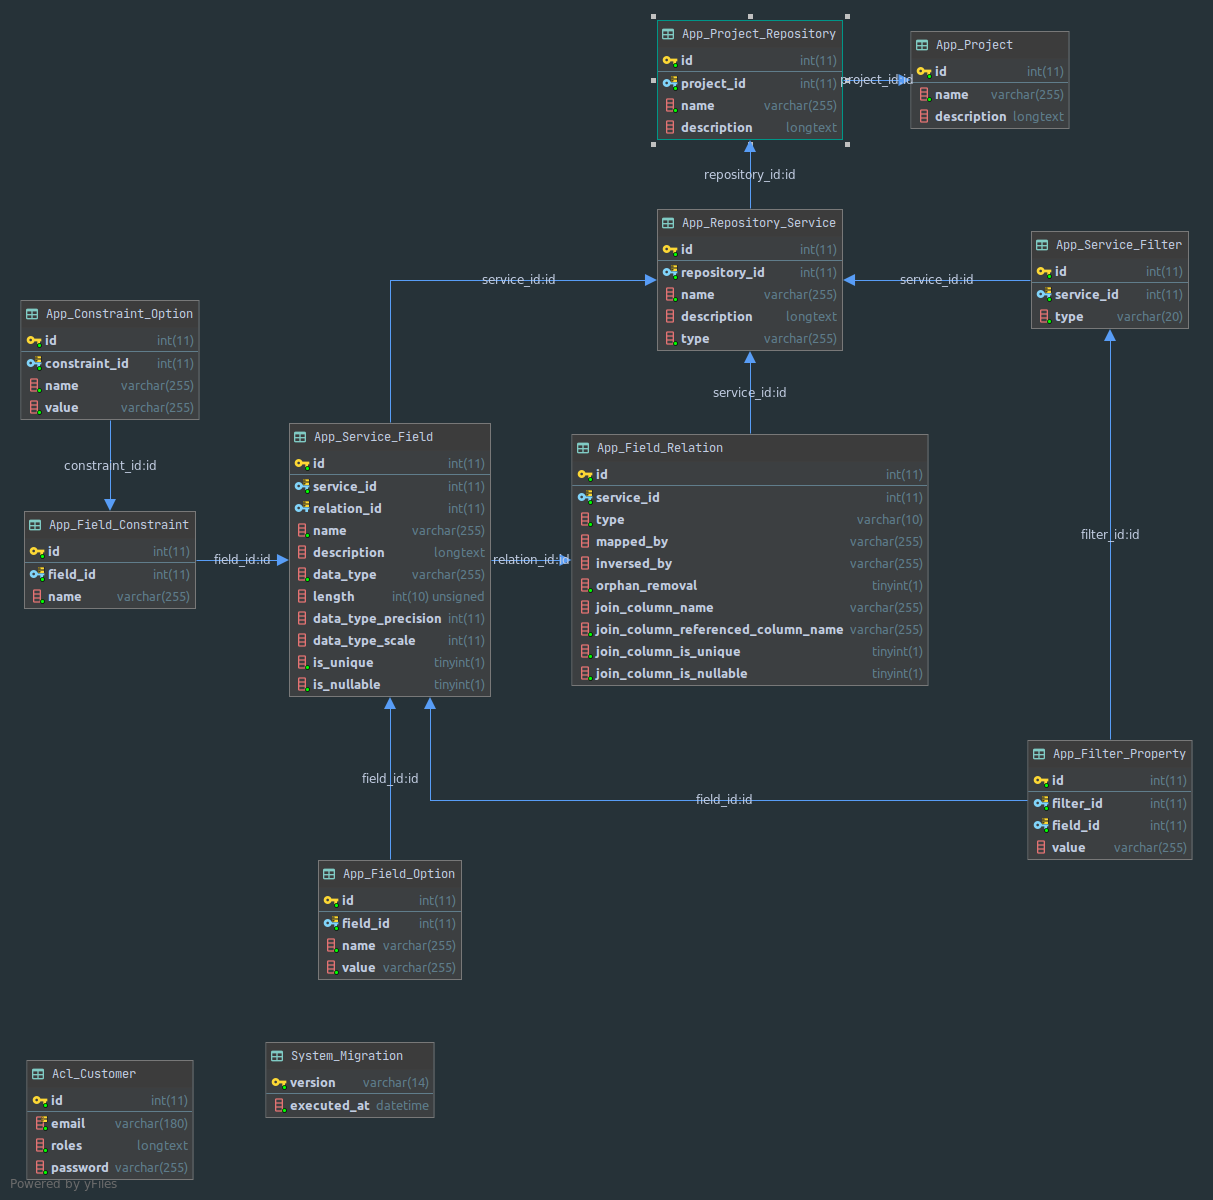
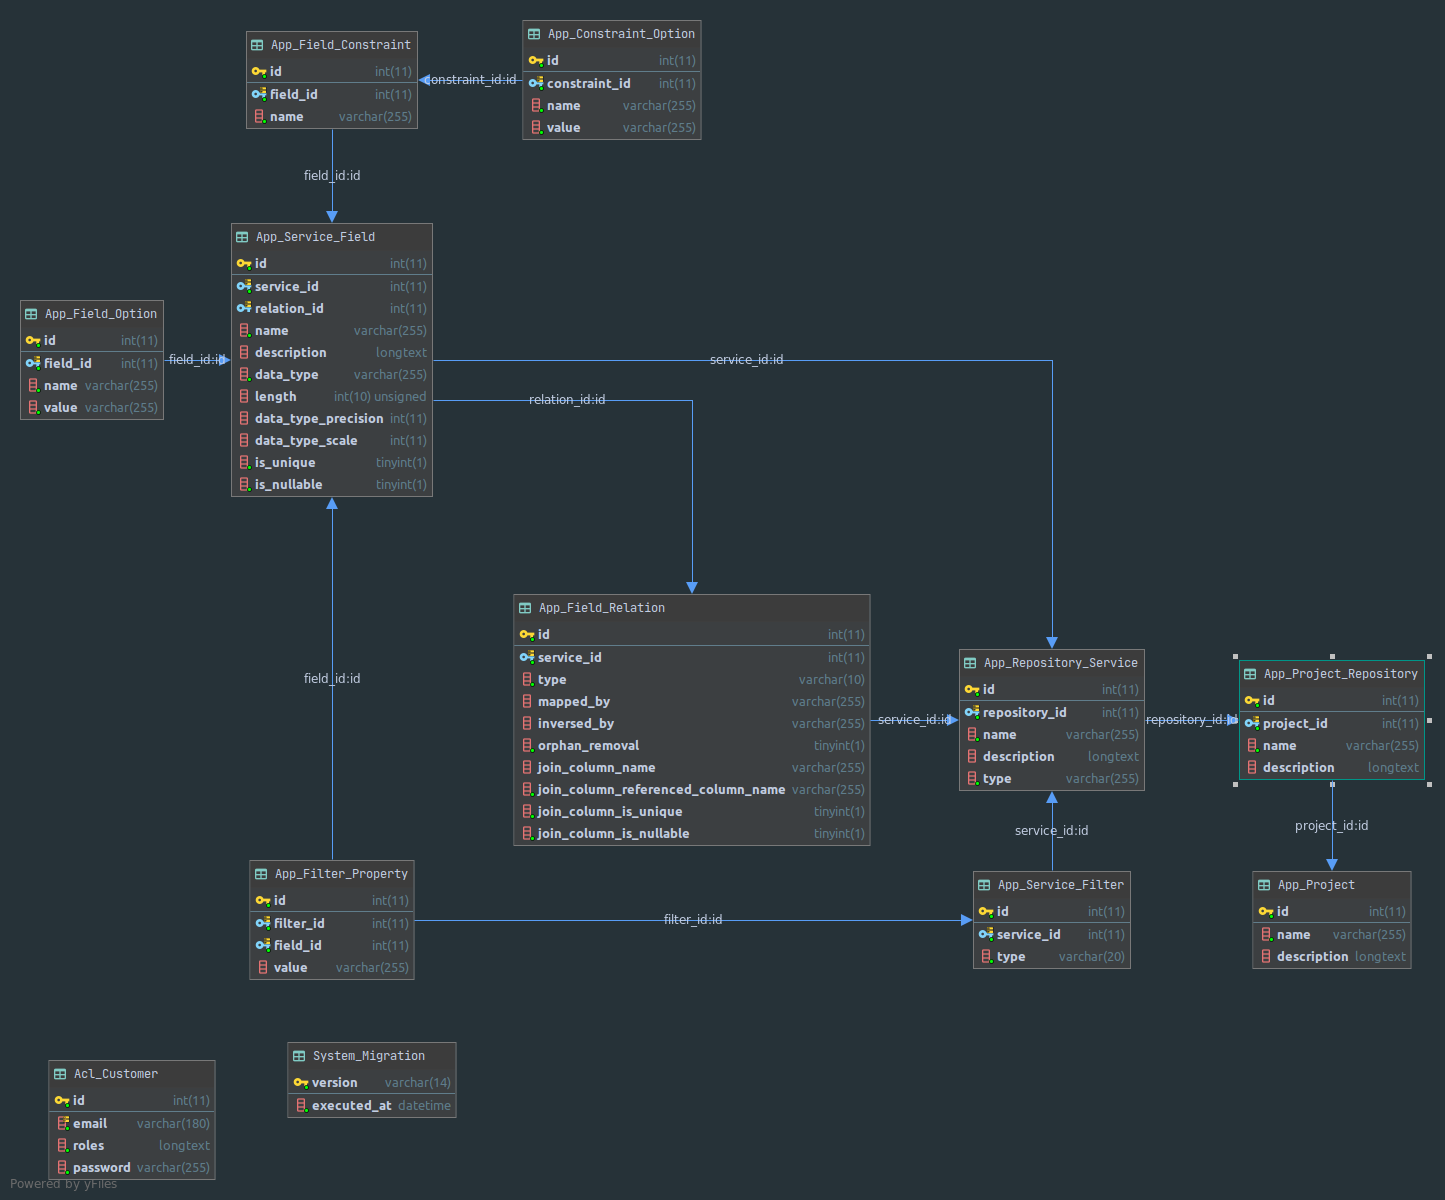
field in filter properties is now a m:1 relation

diff --git a/src/App/Migrations/Version20200807184146.php b/src/App/Migrations/Version20200807184146.php
@@ -10,7 +10,7 @@ use Doctrine\Migrations\AbstractMigration;
 /**
  * Auto-generated Migration: Please modify to your needs!
  */
-final class Version20200805165047 extends AbstractMigration
+final class Version20200807184146 extends AbstractMigration
 {
     public function getDescription() : string
     {
@@ -29,7 +29,7 @@ final class Version20200805165047 extends AbstractMigration
         $this->addSql('CREATE TABLE App_Field_Option (id INT AUTO_INCREMENT NOT NULL, field_id INT NOT NULL, name VARCHAR(255) NOT NULL, value VARCHAR(255) NOT NULL, INDEX IDX_BAEE3380443707B0 (field_id), PRIMARY KEY(id)) DEFAULT CHARACTER SET utf8mb4 COLLATE `utf8mb4_unicode_ci` ENGINE = InnoDB');
         $this->addSql('CREATE TABLE App_Project_Repository (id INT AUTO_INCREMENT NOT NULL, project_id INT NOT NULL, name VARCHAR(255) NOT NULL, description LONGTEXT DEFAULT NULL, INDEX IDX_BECDCEA4166D1F9C (project_id), PRIMARY KEY(id)) DEFAULT CHARACTER SET utf8mb4 COLLATE `utf8mb4_unicode_ci` ENGINE = InnoDB');
         $this->addSql('CREATE TABLE Acl_Customer (id INT AUTO_INCREMENT NOT NULL, email VARCHAR(180) NOT NULL, roles LONGTEXT NOT NULL COMMENT \'(DC2Type:json)\', password VARCHAR(255) NOT NULL, UNIQUE INDEX UNIQ_627894A6E7927C74 (email), PRIMARY KEY(id)) DEFAULT CHARACTER SET utf8mb4 COLLATE `utf8mb4_unicode_ci` ENGINE = InnoDB');
-        $this->addSql('CREATE TABLE App_Filter_Property (id INT AUTO_INCREMENT NOT NULL, filter_id INT NOT NULL, field_id INT NOT NULL, value VARCHAR(255) DEFAULT NULL, INDEX IDX_BB70162BD395B25E (filter_id), UNIQUE INDEX UNIQ_BB70162B443707B0 (field_id), PRIMARY KEY(id)) DEFAULT CHARACTER SET utf8mb4 COLLATE `utf8mb4_unicode_ci` ENGINE = InnoDB');
+        $this->addSql('CREATE TABLE App_Filter_Property (id INT AUTO_INCREMENT NOT NULL, filter_id INT NOT NULL, field_id INT NOT NULL, value VARCHAR(255) DEFAULT NULL, INDEX IDX_BB70162BD395B25E (filter_id), INDEX IDX_BB70162B443707B0 (field_id), PRIMARY KEY(id)) DEFAULT CHARACTER SET utf8mb4 COLLATE `utf8mb4_unicode_ci` ENGINE = InnoDB');
         $this->addSql('CREATE TABLE App_Field_Relation (id INT AUTO_INCREMENT NOT NULL, service_id INT NOT NULL, type VARCHAR(10) DEFAULT \'ManyToOne\' NOT NULL, mapped_by VARCHAR(255) DEFAULT NULL, inversed_by VARCHAR(255) DEFAULT NULL, orphan_removal TINYINT(1) DEFAULT \'0\' NOT NULL, join_column_name VARCHAR(255) DEFAULT NULL, join_column_referenced_column_name VARCHAR(255) DEFAULT \'id\' NOT NULL, join_column_is_unique TINYINT(1) DEFAULT \'0\' NOT NULL, join_column_is_nullable TINYINT(1) DEFAULT \'1\' NOT NULL, INDEX IDX_21FF0C4ED5CA9E6 (service_id), PRIMARY KEY(id)) DEFAULT CHARACTER SET utf8mb4 COLLATE `utf8mb4_unicode_ci` ENGINE = InnoDB');
         $this->addSql('CREATE TABLE App_Project (id INT AUTO_INCREMENT NOT NULL, name VARCHAR(255) NOT NULL, description LONGTEXT DEFAULT NULL, PRIMARY KEY(id)) DEFAULT CHARACTER SET utf8mb4 COLLATE `utf8mb4_unicode_ci` ENGINE = InnoDB');
         $this->addSql('CREATE TABLE App_Service_Field (id INT AUTO_INCREMENT NOT NULL, service_id INT NOT NULL, relation_id INT DEFAULT NULL, name VARCHAR(255) NOT NULL, description LONGTEXT DEFAULT NULL, data_type VARCHAR(255) DEFAULT \'string\' NOT NULL, length INT UNSIGNED DEFAULT NULL, data_type_precision INT DEFAULT NULL, data_type_scale INT DEFAULT NULL, is_unique TINYINT(1) DEFAULT \'0\' NOT NULL, is_nullable TINYINT(1) DEFAULT \'0\' NOT NULL, INDEX IDX_34E6C318ED5CA9E6 (service_id), UNIQUE INDEX UNIQ_34E6C3183256915B (relation_id), PRIMARY KEY(id)) DEFAULT CHARACTER SET utf8mb4 COLLATE `utf8mb4_unicode_ci` ENGINE = InnoDB');

diff --git a/src/App/Entity/FilterProperty.php b/src/App/Entity/FilterProperty.php
@@ -79,7 +79,7 @@ class FilterProperty
     private $filter;
 
     /**
-     * @ORM\OneToOne(targetEntity=Field::class, cascade={"persist", "remove"})
+     * @ORM\ManyToOne(targetEntity=Field::class)
      * @ORM\JoinColumn(nullable=false)
      * @Assert\Valid
      * @MaxDepth(1)
@@ -121,7 +121,7 @@ class FilterProperty
         return $this->field;
     }
 
-    public function setField(Field $field): self
+    public function setField(?Field $field): self
     {
         $this->field = $field;
 
